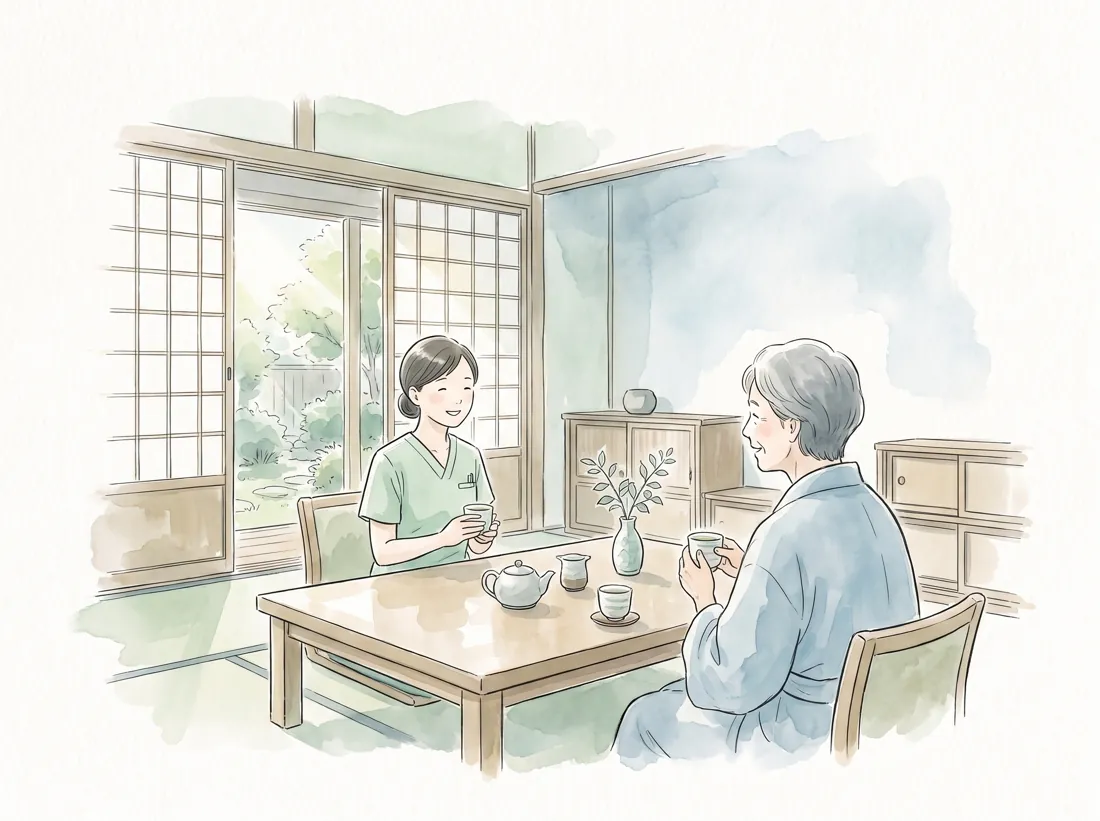
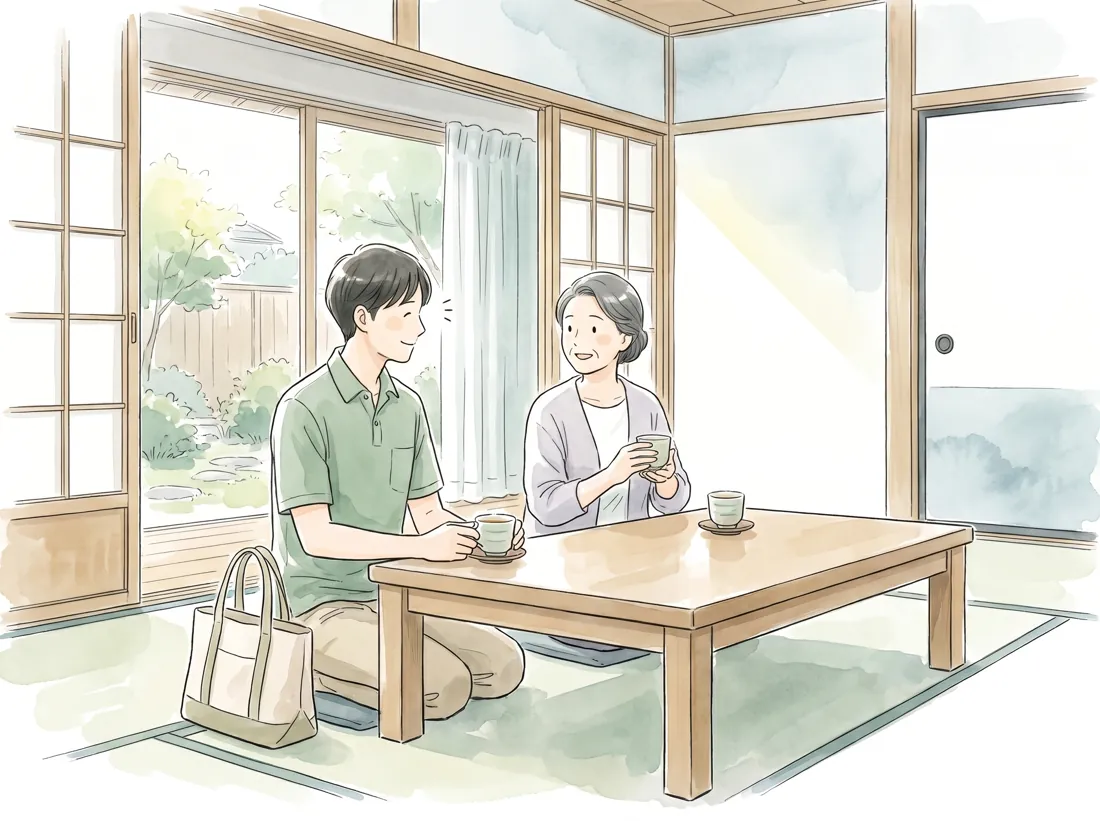
第4版: 私服・精神科らしい絵、作業療法士、動画を外す、よくある質問ページ

diff --git a/qa.html b/qa.html
@@ -1,0 +1,71 @@
+<!doctype html>
+<html lang="ja">
+<head>
+<meta charset="utf-8">
+<meta name="viewport" content="width=device-width, initial-scale=1, viewport-fit=cover">
+<title>よくある質問｜訪問看護ステーションはるうた</title>
+<meta name="description" content="福岡県糟屋郡新宮町を拠点とした、こころのケアが得意な訪問看護ステーションはるうた。「したい」を形に、オーダーメイドの生き方支援をお届けします。">
+<meta property="og:title" content="訪問看護ステーションはるうた">
+<meta property="og:description" content="「したい」を形に。オーダーメイドの生き方支援。新宮町を拠点とした、こころのケアが得意な訪問看護ステーションです。">
+<meta property="og:image" content="assets/img/hero_sea.webp">
+<link rel="icon" href="assets/favicon.png">
+<link rel="preconnect" href="https://fonts.googleapis.com">
+<link rel="preconnect" href="https://fonts.gstatic.com" crossorigin>
+<link rel="stylesheet" href="https://fonts.googleapis.com/css2?family=Zen+Maru+Gothic:wght@400;500;700&family=Zen+Old+Mincho:wght@400;500;700&display=swap">
+<link rel="stylesheet" href="assets/style.css">
+</head>
+<body>
+
+<header class="site-head">
+  <div class="wrap">
+    <a class="brand" href="./"><img src="assets/logo.png" alt=""><span class="bt"><small>こころのケアが得意な訪問看護ステーション</small><b>はるうた</b></span></a>
+    <button class="menu-btn" type="button" aria-expanded="false" aria-controls="nav">メニュー</button>
+    <nav class="nav" id="nav">
+      <a href="./#top"><svg viewBox="0 0 24 24"><path d="M3 11l9-7 9 7"/><path d="M5 10v10h14V10"/><path d="M10 20v-6h4v6"/></svg>ホーム</a>
+      <a href="./#service"><svg viewBox="0 0 24 24"><path d="M12 20s-7-4.4-7-10a4 4 0 0 1 7-2.6A4 4 0 0 1 19 10c0 5.6-7 10-7 10z"/></svg>はるうたの<br>訪問看護</a>
+      <a href="./#first"><svg viewBox="0 0 24 24"><circle cx="12" cy="12" r="9"/><path d="M9.5 9.5a2.5 2.5 0 1 1 3.5 2.3c-.6.3-1 .8-1 1.5v.7"/><path d="M12 17h.01"/></svg>はじめての<br>方へ</a>
+      <a href="./#area"><svg viewBox="0 0 24 24"><path d="M12 21s-6-5.3-6-11a6 6 0 0 1 12 0c0 5.7-6 11-6 11z"/><circle cx="12" cy="10" r="2.2"/></svg>対象<br>エリア</a>
+      <a href="qa.html"><svg viewBox="0 0 24 24"><path d="M4 5h11a2 2 0 0 1 2 2v6a2 2 0 0 1-2 2H9l-4 3v-3H4z"/><path d="M19 9h1v8h-1v3l-3-3h-5"/></svg>よくある<br>質問</a>
+      <a href="./#news"><svg viewBox="0 0 24 24"><rect x="4" y="5" width="16" height="12" rx="2"/><path d="M8 21l3-4"/><path d="M8 9h8M8 13h5"/></svg>お知らせ</a>
+      <a href="./#access"><svg viewBox="0 0 24 24"><rect x="3" y="6" width="18" height="12" rx="2"/><path d="M3 8l9 6 9-6"/></svg>アクセス<br>お問い合わせ</a>
+    </nav>
+    <a class="head-tel" href="tel:0924106392"><small>お電話でのご質問・ご相談</small><b>092-410-6392</b><small>受付 9:00〜18:00（土日祝日を除く）</small></a>
+  </div>
+</header>
+
+<main>
+  <section class="page-head">
+    <div class="wrap">
+      <span class="crumb"><a href="./">ホーム</a> ／ よくある質問</span>
+      <h1>よくある質問</h1>
+    </div>
+  </section>
+  <section class="block qa-page">
+    <div class="wrap">
+      <div class="qa-tools">
+        <label class="qa-search" for="qa-q"><span>ことばで探す</span><input id="qa-q" type="search" placeholder="例：料金、頻度、家族" autocomplete="off"></label>
+        <nav class="qa-chips" aria-label="カテゴリー"><a class="qa-chip" href="#about">はじめての方へ</a><a class="qa-chip" href="#start">ご利用の始め方</a><a class="qa-chip" href="#visit">訪問について</a><a class="qa-chip" href="#privacy">プライバシー・安心</a><a class="qa-chip" href="#fee">料金・制度</a><a class="qa-chip" href="#family">ご家族の方へ</a><a class="qa-chip" href="#partner">医療機関・関係機関の方へ</a></nav>
+        <p class="qa-count" id="qa-count">23 件の質問</p>
+      </div>
+      <section class="qa-group" id="about"><h2>はじめての方へ</h2><details class="qa"><summary><span class="q">Q</span><span>精神科訪問看護とは、どんなサービスですか？</span></summary><div class="a"><span class="q a-mark">A</span><div><p>精神科訪問看護の目的は「精神疾患を持つ方自身が、したいことや夢を実現できるように必要なサポートを提供すること」です。</p><p>はるうたでは、利用者さんの「こうしたい、こうなりたい」という気持ちを尊重し、その方の強みやできることを大切にしながら、自分らしい在り方で歩んでいくための支援を常に考えています。</p></div></div></details><details class="qa"><summary><span class="q">Q</span><span>身体の病気や医療処置がなくても利用できますか？</span></summary><div class="a"><span class="q a-mark">A</span><div><p>はい。訪問看護は、身体の看護や自宅での医療処置が必要な方だけのもの、というイメージがまだ大きくありますが、はるうたはこころのケアが得意な訪問看護ステーションです。</p><p>「こうやって活用できるなんて知らなかった」「私でもサービスを受けられるんだ」——はじめてご利用される方から、実際によくいただく言葉です。</p></div></div></details><details class="qa"><summary><span class="q">Q</span><span>どんな人が受けられますか？</span></summary><div class="a"><span class="q a-mark">A</span><div><p>精神科病院、心療内科、メンタルクリニックに通院中の方が対象です。ご利用には医師の指示書が必要です。就労中の方もご利用いただけます。</p><p>統合失調症・うつ病・双極性障害・パニック障害・発達障害・依存症など、幅広い精神疾患に対応しています。お子さまも対象で、年齢制限はありません。</p></div></div></details><details class="qa"><summary><span class="q">Q</span><span>子どもも利用できますか？</span></summary><div class="a"><span class="q a-mark">A</span><div><p>はい。あまり知られていませんが、訪問看護でも子どもの療育を受けられます。</p><p>はるうたには児童発達支援士・発達障害コミュニケーションサポーターの資格を持つスタッフが在籍しており、その子の課題やプログラムに応じた療育を行うことができます。</p></div></div></details></section><section class="qa-group" id="start"><h2>ご利用の始め方</h2><details class="qa"><summary><span class="q">Q</span><span>利用を始めるまでの流れを教えてください。</span></summary><div class="a"><span class="q a-mark">A</span><div><p>① お問い合わせ → ② 面談 → ③ 主治医へ相談・病院受診 → ④ ご契約 → ⑤ ご利用開始、の流れです。</p><p>ご利用開始後は、ご利用者さまの状態に応じて各機関と連携し、生活をサポートします。</p></div></div></details><details class="qa"><summary><span class="q">Q</span><span>面談はどこで行いますか？</span></summary><div class="a"><span class="q a-mark">A</span><div><p>ご自宅（入居施設）や、はるうたの事業所で、ご本人・ご家族さまと面談します。Zoom などオンラインでの面談も可能です。</p></div></div></details><details class="qa"><summary><span class="q">Q</span><span>主治医の許可は必要ですか？</span></summary><div class="a"><span class="q a-mark">A</span><div><p>はい。訪問看護をご利用いただくには、主治医の指示書（訪問看護指示書）が必要です。</p><p>すでに精神科・心療内科に通院（入院中）の方は、主治医へご相談ください。</p></div></div></details><details class="qa"><summary><span class="q">Q</span><span>まだ精神科・心療内科を受診していません。</span></summary><div class="a"><span class="q a-mark">A</span><div><p>まずは病院で、こころの状態・身体の状態を医師に診ていただくことになります。</p><p>必要に応じて、はるうたの看護師が受診に付き添うことも可能です。</p></div></div></details></section><section class="qa-group" id="visit"><h2>訪問について</h2><details class="qa"><summary><span class="q">Q</span><span>訪問はどのくらいの頻度ですか？</span></summary><div class="a"><span class="q a-mark">A</span><div><p>ご利用者さま・ご家族との相談次第です。精神科訪問看護では、月1回から、原則として週3日まで訪問できます。退院直後の3か月間は、週5日まで訪問できます。</p><p>病状が悪化したときなどは、主治医の指示により一時的に回数を増やせる場合があります。</p></div></div></details><details class="qa"><summary><span class="q">Q</span><span>どんなスタッフが来ますか？</span></summary><div class="a"><span class="q a-mark">A</span><div><p>看護師（准看護師を含む）と作業療法士が在籍しています。精神科での経験が豊富な看護師が多く在籍しています。詳しくはスタッフ紹介をご覧ください。</p><p>ご利用者さま及びご家族の許可が得られる場合には、状況に応じて2名のスタッフで訪問することがあります（医師の許可も必要です）。</p></div></div></details><details class="qa"><summary><span class="q">Q</span><span>どんなサービスを受けられますか？</span></summary><div class="a"><span class="q a-mark">A</span><div><p>主に、こころの状態の観察、対話でのケア（カウンセリングのようなイメージです）、お薬の管理に関するご相談、日常生活での援助を行っています。</p><p>外出や通院の同行、お散歩やご自宅での足浴などの気分転換、ご家族へのサポート、各機関との連携も行います。</p></div></div></details><details class="qa"><summary><span class="q">Q</span><span>夜間や休日に具合が悪くなったら、どうすればいいですか？</span></summary><div class="a"><span class="q a-mark">A</span><div><p>緊急時は、24時間365日の体制を整えています。</p></div></div></details><details class="qa"><summary><span class="q">Q</span><span>訪問看護師は車で来ますか？</span></summary><div class="a"><span class="q a-mark">A</span><div><p>距離にもよりますが、主に車で移動することが多いです。訪問先の駐車場に停める場合もありますが、近隣の駐車場を利用することもあります。</p><p>駐車場代・ガソリン代・交通費は、一切かかりません。</p></div></div></details></section><section class="qa-group" id="privacy"><h2>プライバシー・安心</h2><details class="qa"><summary><span class="q">Q</span><span>周りに訪問看護を利用していることを知られたくないのですが…</span></summary><div class="a"><span class="q a-mark">A</span><div><p>訪問時の車には「訪問看護ステーション」の記載はありません。医療従事者だと分かるような白衣や指定のユニフォームもなく、スタッフは私服で伺います。</p><p>訪問看護スタッフの訪問であることが近隣の皆さまに悟られないよう、最大限の配慮をいたします。</p></div></div></details><details class="qa"><summary><span class="q">Q</span><span>主治医や関係機関と、どんな情報を共有しますか？</span></summary><div class="a"><span class="q a-mark">A</span><div><p>体調や心身の状態、生活状況、服薬状況、支援の経過、緊急時に必要な情報など、療養生活を支えるために必要な内容に限ります。</p><p>情報共有は、ご利用者さままたはご家族さまの同意をいただいたうえで行います。詳しくは「<a href="renkei.html">訪問看護医療情報連携加算に係る掲示</a>」をご覧ください。</p></div></div></details></section><section class="qa-group" id="fee"><h2>料金・制度</h2><details class="qa"><summary><span class="q">Q</span><span>料金はどのくらいかかりますか？</span></summary><div class="a"><span class="q a-mark">A</span><div><p>精神科訪問看護では医療保険が適用になります。医療保険の場合は、基本1〜3割負担です。</p><p>受給者証をお持ちの場合は、上限額によって月々の利用料が異なります。駐車場代・ガソリン代・交通費はかかりません。</p></div></div></details><details class="qa"><summary><span class="q">Q</span><span>生活保護を受けていますが、利用できますか？</span></summary><div class="a"><span class="q a-mark">A</span><div><p>はい。生活保護の場合、自己負担はありません。</p></div></div></details><details class="qa"><summary><span class="q">Q</span><span>自立支援医療を使うとどうなりますか？</span></summary><div class="a"><span class="q a-mark">A</span><div><p>自立支援医療は、精神科治療を受けている方が対象です。医療費の1割負担を原則としつつ、月額負担上限額が認定されます。対象は、受給者証に記載されている医療機関です。はるうたを使うときは、受給者証に訪問看護ステーションを加える手続きが必要です（手続きはお手伝いします）。</p><p>例えば月額負担上限額が5,000円の場合、病院代と薬代を合わせて5,000円を超えた月は、訪問看護の利用料は0円です。病院代と薬代が月4,500円だった月は、差額の500円です。</p></div></div></details><details class="qa"><summary><span class="q">Q</span><span>重度障がい者医療や、こども医療費助成制度は使えますか？</span></summary><div class="a"><span class="q a-mark">A</span><div><p>どちらも医療保険による訪問看護が対象です。これらは各自治体の制度で、自己負担の有無や上限額は自治体によって異なります。</p><p>自立支援医療と違い、通院代・薬代とは別に、訪問看護の利用料がかかる場合があります。詳しくはお住まいの市区町村の担当課にお問い合わせいただくか、はるうたにご相談ください。</p></div></div></details><details class="qa"><summary><span class="q">Q</span><span>制度の手続きを手伝ってもらえますか？</span></summary><div class="a"><span class="q a-mark">A</span><div><p>はい。自立支援医療の手続きにあたり、訪問スタッフが役所に同行すること、もしくは代理申請も可能です。お気軽にご相談ください。</p></div></div></details></section><section class="qa-group" id="family"><h2>ご家族の方へ</h2><details class="qa"><summary><span class="q">Q</span><span>家族だけでも相談できますか？</span></summary><div class="a"><span class="q a-mark">A</span><div><p>はい。ご家族がうまく生活を組み立てられず困っている方、自分だけではどうしたらいいかわからない方も、まずはお気軽にご相談ください。</p><p>はるうたは、ご利用開始後も、必要に応じてご家族への相談支援・サポートを行っています。</p></div></div></details></section><section class="qa-group" id="partner"><h2>医療機関・関係機関の方へ</h2><details class="qa"><summary><span class="q">Q</span><span>利用者さんを紹介したいときは、どうすればよいですか？</span></summary><div class="a"><span class="q a-mark">A</span><div><p>お電話（092-410-6392／受付 9:00〜18:00・土日祝日を除く）でご連絡ください。</p></div></div></details><details class="qa"><summary><span class="q">Q</span><span>どのような機関と連携していますか？</span></summary><div class="a"><span class="q a-mark">A</span><div><p>相談支援事業所、障がい福祉サービス事業所、グループホーム、薬局、居宅介護支援事業所などと連携しています。一覧は「<a href="renkei.html">訪問看護医療情報連携加算に係る掲示</a>」に載せています。</p></div></div></details></section>
+      <div class="call qa-call">
+        <h3>ここにない質問も、お気軽にどうぞ</h3>
+        <div class="tel"><div><small>お電話でのご質問・ご相談</small><a class="num" href="tel:0924106392">092-410-6392</a><small>受付 9:00〜18:00（土日祝日を除く）</small></div></div>
+        <button class="copy" type="button" data-copy="092-410-6392">番号をコピー</button>
+      </div>
+    </div>
+  </section>
+</main>
+
+<footer class="site-foot">
+  <div class="wrap">
+    <a class="fb" href="./"><img src="assets/logo.png" alt=""><span><b>訪問看護ステーションはるうた</b><br><small>こころのケアが得意な訪問看護</small></span></a>
+    <nav><a href="./#service">はるうたの訪問看護</a><a href="./#first">はじめての方へ</a><a href="./#area">対象エリア</a><a href="qa.html">よくある質問</a><a href="./#news">お知らせ</a><a href="renkei.html">連携機関の掲示</a><a href="./#access">アクセス・お問い合わせ</a></nav>
+    <small>〒811-0112 福岡県糟屋郡新宮町下府5丁目5-10　TEL 092-410-6392　FAX 092-410-6393</small>
+    <small>© 合同会社リンク</small>
+  </div>
+</footer>
+
+<script src="assets/site.js"></script>
+</body>
+</html>

diff --git a/index.html b/index.html
@@ -25,6 +25,7 @@
       <a href="./#service"><svg viewBox="0 0 24 24"><path d="M12 20s-7-4.4-7-10a4 4 0 0 1 7-2.6A4 4 0 0 1 19 10c0 5.6-7 10-7 10z"/></svg>はるうたの<br>訪問看護</a>
       <a href="./#first"><svg viewBox="0 0 24 24"><circle cx="12" cy="12" r="9"/><path d="M9.5 9.5a2.5 2.5 0 1 1 3.5 2.3c-.6.3-1 .8-1 1.5v.7"/><path d="M12 17h.01"/></svg>はじめての<br>方へ</a>
       <a href="./#area"><svg viewBox="0 0 24 24"><path d="M12 21s-6-5.3-6-11a6 6 0 0 1 12 0c0 5.7-6 11-6 11z"/><circle cx="12" cy="10" r="2.2"/></svg>対象<br>エリア</a>
+      <a href="qa.html"><svg viewBox="0 0 24 24"><path d="M4 5h11a2 2 0 0 1 2 2v6a2 2 0 0 1-2 2H9l-4 3v-3H4z"/><path d="M19 9h1v8h-1v3l-3-3h-5"/></svg>よくある<br>質問</a>
       <a href="./#news"><svg viewBox="0 0 24 24"><rect x="4" y="5" width="16" height="12" rx="2"/><path d="M8 21l3-4"/><path d="M8 9h8M8 13h5"/></svg>お知らせ</a>
       <a href="./#access"><svg viewBox="0 0 24 24"><rect x="3" y="6" width="18" height="12" rx="2"/><path d="M3 8l9 6 9-6"/></svg>アクセス<br>お問い合わせ</a>
     </nav>
@@ -42,21 +43,19 @@
         <div class="btns"><a class="btn main" href="#first">はじめての方へ</a><a class="btn sub" href="#access">ご相談・お問い合わせ</a></div>
       </div>
       <div class="hero-movie">
-        <div class="frame">
-          <iframe src="https://www.youtube-nocookie.com/embed/6pCCk3XAME0?rel=0&amp;playsinline=1&amp;mute=1&amp;autoplay=1&amp;loop=1&amp;controls=0&amp;playlist=6pCCk3XAME0" title="訪問看護ステーションはるうた 紹介動画" allow="autoplay; encrypted-media; picture-in-picture" referrerpolicy="strict-origin-when-cross-origin" allowfullscreen></iframe>
-        </div>
+        <div class="frame"><img src="assets/img/hero_walk.webp" alt="スタッフとご利用者さんが海沿いの松林の道を並んで歩く水彩画" width="1600" height="893" fetchpriority="high"></div>
       </div>
     </div>
   </section>
 
   <section class="band">
-    <img src="assets/img/hero_sea.webp" alt="看護師とご利用者さんが海沿いの松林の道を並んで歩く水彩画" width="1920" height="1072" loading="lazy">
+    <img src="assets/img/band_bench.webp" alt="海の見えるベンチに並んで座る二人の水彩画" width="1920" height="823" loading="lazy">
     <p class="band-copy"><span class="nb">私たちが時間をかけて</span><span class="nb">寄り添います</span></p>
   </section>
 
   <section class="block leaf-tr" id="about">
     <div class="wrap two">
-      <div class="art"><img src="assets/img/about_talk.webp" alt="ご自宅のテーブルで看護師とご利用者さんがお茶を飲みながら話している水彩画" width="1100" height="821" loading="lazy"></div>
+      <div class="art"><img src="assets/img/about_talk.webp" alt="ご自宅の座卓でスタッフとご利用者さんがお茶を飲みながら話している水彩画" width="1100" height="821" loading="lazy"></div>
       <div class="prose">
         <div class="sec-head" style="justify-items:start;text-align:left;margin-bottom:8px"><span class="en">ABOUT</span><h2><span class="nb">はるうたは、</span><span class="nb">こころのケアが得意な</span><span class="nb">訪問看護ステーションです</span></h2></div>
         <p>はるうたでは、専門的視点を持ちながらも『その人らしい生き方』を常に尊重します。</p>
@@ -80,7 +79,7 @@
           <li>涙があふれて止まらない</li>
           <li>自分を傷つけてしまう</li>
         </ul>
-        <div class="art"><img src="assets/img/worries_window.webp" alt="窓辺に座る人に看護師がお茶を差し出す水彩画" width="1100" height="821" loading="lazy"></div>
+        <div class="art"><img src="assets/img/worries_listen.webp" alt="窓辺に座る人のそばで、スタッフが同じ目の高さで話を聴いている水彩画" width="1100" height="821" loading="lazy"></div>
       </div>
       <div class="closing">
         <p>そのほかにも、こころの悩みや感じ方は、人それぞれあります。<br>周りにSOSを出せずに抱え込んでいる方、ご家族がうまく生活を組み立てられず困っている方、<br>自分だけではどうしたらいいかわからない方も、まずはお気軽にご相談ください。</p>
@@ -103,14 +102,14 @@
     <div class="wrap">
       <div class="sec-head"><span class="en">SERVICE</span><h2>はるうたの訪問看護</h2></div>
       <div class="services">
-        <div class="service"><img src="assets/img/svc_doctor.webp" alt="" width="640" height="640" loading="lazy"><h3>主治医との連携</h3><p>主治医による指示のもと、訪問看護を行います。毎月1回、ご利用者さまの状態を主治医へ報告します。</p></div>
+        <div class="service"><img src="assets/img/svc_link.webp" alt="" width="640" height="640" loading="lazy"><h3>主治医との連携</h3><p>主治医による指示のもと、訪問看護を行います。毎月1回、ご利用者さまの状態を主治医へ報告します。</p></div>
         <div class="service"><img src="assets/img/svc_plan.webp" alt="" width="640" height="640" loading="lazy"><h3>ご利用者さまとのプランニング</h3><p>はるうたでは「ご利用者さまとともに」訪問看護計画を作成します。段階に応じて、ご利用者さまの状態に応じたプランツールをご紹介します。</p></div>
-        <div class="service"><img src="assets/img/svc_visit.webp" alt="" width="640" height="640" loading="lazy"><h3>看護師の定期的な訪問</h3><p>看護師1〜2名で訪問し、病状・健康状態の観察、お薬の管理相談、および対話による看護サービスを提供します。</p></div>
-        <div class="service"><img src="assets/img/svc_rehab.webp" alt="" width="640" height="640" loading="lazy"><h3>身体リハビリも対応可能</h3><p>理学療法士によるリハビリプログラムを提案します。EMS（電気治療機器）を用いた看護師によるリハビリも可能です。</p></div>
+        <div class="service"><img src="assets/img/svc_visit.webp" alt="" width="640" height="640" loading="lazy"><h3>看護師・作業療法士の定期的な訪問</h3><p>看護師・作業療法士が1〜2名で訪問し、病状・健康状態の観察、お薬の管理相談、および対話による看護サービスを提供します。</p></div>
+        <div class="service"><img src="assets/img/svc_ot.webp" alt="" width="640" height="640" loading="lazy"><h3>作業療法士による暮らしの支援</h3><p>作業療法士が、料理や買い物、趣味など暮らしの中の「したいこと」を一緒に練習し、生活のリズムづくりをお手伝いします。</p></div>
       </div>
 
       <div class="two sub-two">
-        <div class="art"><img src="assets/img/outing_park.webp" alt="看護師とご利用者さんが公園の道を並んで散歩する水彩画" width="1100" height="821" loading="lazy"></div>
+        <div class="art"><img src="assets/img/outing.webp" alt="スタッフとご利用者さんが買い物袋を持って公園の道を歩く水彩画" width="1100" height="821" loading="lazy"></div>
         <div class="others prose">
           <span class="badge">その他サービス</span>
           <h3>暮らしの中で、一緒に</h3>
@@ -119,7 +118,7 @@
       </div>
 
       <div class="two rev sub-two">
-        <div class="art"><img src="assets/img/kids_blocks.webp" alt="看護師が子どもと積み木で遊び、保護者が見守る水彩画" width="1100" height="821" loading="lazy"></div>
+        <div class="art"><img src="assets/img/kids.webp" alt="スタッフが子どもと絵カードで遊び、保護者が見守る水彩画" width="1100" height="821" loading="lazy"></div>
         <div class="prose">
           <span class="badge">お子様の発達支援</span>
           <h3>訪問看護でも、子どもの療育を受けられます</h3>
@@ -132,7 +131,7 @@
 
   <section class="block wash" id="first">
     <div class="wrap two">
-      <div class="art"><img src="assets/img/family_sofa.webp" alt="ご家族と看護師がソファで話している水彩画" width="1100" height="821" loading="lazy"></div>
+      <div class="art"><img src="assets/img/family_talk.webp" alt="ご家族とスタッフが食卓で話している水彩画" width="1100" height="821" loading="lazy"></div>
       <div class="prose">
         <div class="sec-head" style="justify-items:start;text-align:left;margin-bottom:8px"><span class="en">FOR YOU</span><h2>はじめての方へ</h2></div>
         <p class="catchline">「こうやって活用できるなんて知らなかった」<br>「私でもサービスを受けられるんだ」</p>
@@ -190,7 +189,7 @@
 <footer class="site-foot">
   <div class="wrap">
     <a class="fb" href="./"><img src="assets/logo.png" alt=""><span><b>訪問看護ステーションはるうた</b><br><small>こころのケアが得意な訪問看護</small></span></a>
-    <nav><a href="./#service">はるうたの訪問看護</a><a href="./#first">はじめての方へ</a><a href="./#area">対象エリア</a><a href="./#news">お知らせ</a><a href="renkei.html">連携機関の掲示</a><a href="./#access">アクセス・お問い合わせ</a></nav>
+    <nav><a href="./#service">はるうたの訪問看護</a><a href="./#first">はじめての方へ</a><a href="./#area">対象エリア</a><a href="qa.html">よくある質問</a><a href="./#news">お知らせ</a><a href="renkei.html">連携機関の掲示</a><a href="./#access">アクセス・お問い合わせ</a></nav>
     <small>〒811-0112 福岡県糟屋郡新宮町下府5丁目5-10　TEL 092-410-6392　FAX 092-410-6393</small>
     <small>© 合同会社リンク</small>
   </div>

diff --git a/assets/style.css b/assets/style.css
@@ -46,7 +46,7 @@ p{margin:0}
 .hero .lead{font-size:.95rem;color:var(--muted)}
 .hero .btns{justify-content:flex-start}
 .hero-movie .frame{position:relative;aspect-ratio:16/9;border-radius:28px;overflow:hidden;background:#e3ece6;box-shadow:0 24px 60px rgba(47,84,68,.16);outline:10px solid rgba(255,255,255,.7)}
-.hero-movie iframe{position:absolute;inset:0;width:100%;height:100%;border:0}
+.hero-movie iframe,.hero-movie img{position:absolute;inset:0;width:100%;height:100%;border:0;object-fit:cover}
 
 /* 絵の帯 */
 .band{position:relative;margin:0}
@@ -170,6 +170,29 @@ dl.facts dd{min-width:0;overflow-wrap:anywhere}
 .partners .p-kind{font-size:.85rem;color:var(--deep);background:var(--sage-soft);border-radius:6px;padding:1px 8px;justify-self:start}
 .partners .p-addr{font-size:.9rem;color:var(--muted);overflow-wrap:anywhere}
 .fine{font-size:.9rem;color:var(--muted);display:grid;gap:4px}
+
+/* ---------- よくある質問 ---------- */
+.qa-page .wrap{max-width:900px}
+.qa-tools{display:grid;gap:16px;margin-bottom:48px}
+.qa-search{display:grid;gap:6px;font-size:.9rem;color:var(--muted)}
+.qa-search input{font:inherit;font-size:1rem;padding:14px 18px;border-radius:999px;border:1px solid var(--line);background:var(--white);color:var(--ink)}
+.qa-chips{display:flex;flex-wrap:wrap;gap:8px}
+.qa-chip{font-size:.88rem;text-decoration:none;color:var(--deep);background:var(--sage-soft);border-radius:999px;padding:6px 16px}
+.qa-chip:hover{background:#dde9e0}
+.qa-count{font-size:.85rem;color:var(--muted)}
+.qa-group{display:grid;gap:12px;margin-bottom:56px;scroll-margin-top:110px}
+.qa-group h2{font-size:1.3rem;color:var(--deep);padding-bottom:10px;border-bottom:1px solid var(--line)}
+details.qa{background:var(--white);border:1px solid var(--line);border-radius:18px;overflow:hidden}
+details.qa summary{list-style:none;cursor:pointer;display:grid;grid-template-columns:auto 1fr auto;gap:14px;align-items:center;padding:18px 20px;font-weight:500;line-height:1.7}
+details.qa summary::-webkit-details-marker{display:none}
+details.qa summary::after{content:"+";font-size:1.4rem;color:var(--sage);line-height:1}
+details.qa[open] summary::after{content:"−"}
+.qa .q{display:inline-grid;place-items:center;width:34px;height:34px;border-radius:50%;background:var(--sage);color:var(--white);font-family:var(--display);font-size:1rem}
+.qa .a{display:grid;grid-template-columns:auto 1fr;gap:14px;padding:0 20px 20px;color:var(--ink)}
+.qa .a > div{display:grid;gap:.8em;min-width:0}
+.qa .a-mark{background:var(--blush);color:#9a5b52}
+.qa-call{margin-top:24px}
+.qa-group[hidden],details.qa[hidden]{display:none}
 
 /* ---------- 画面の幅ごと ---------- */
 @media (max-width:1060px){

diff --git a/renkei.html b/renkei.html
@@ -25,6 +25,7 @@
       <a href="./#service"><svg viewBox="0 0 24 24"><path d="M12 20s-7-4.4-7-10a4 4 0 0 1 7-2.6A4 4 0 0 1 19 10c0 5.6-7 10-7 10z"/></svg>はるうたの<br>訪問看護</a>
       <a href="./#first"><svg viewBox="0 0 24 24"><circle cx="12" cy="12" r="9"/><path d="M9.5 9.5a2.5 2.5 0 1 1 3.5 2.3c-.6.3-1 .8-1 1.5v.7"/><path d="M12 17h.01"/></svg>はじめての<br>方へ</a>
       <a href="./#area"><svg viewBox="0 0 24 24"><path d="M12 21s-6-5.3-6-11a6 6 0 0 1 12 0c0 5.7-6 11-6 11z"/><circle cx="12" cy="10" r="2.2"/></svg>対象<br>エリア</a>
+      <a href="qa.html"><svg viewBox="0 0 24 24"><path d="M4 5h11a2 2 0 0 1 2 2v6a2 2 0 0 1-2 2H9l-4 3v-3H4z"/><path d="M19 9h1v8h-1v3l-3-3h-5"/></svg>よくある<br>質問</a>
       <a href="./#news"><svg viewBox="0 0 24 24"><rect x="4" y="5" width="16" height="12" rx="2"/><path d="M8 21l3-4"/><path d="M8 9h8M8 13h5"/></svg>お知らせ</a>
       <a href="./#access"><svg viewBox="0 0 24 24"><rect x="3" y="6" width="18" height="12" rx="2"/><path d="M3 8l9 6 9-6"/></svg>アクセス<br>お問い合わせ</a>
     </nav>
@@ -92,7 +93,7 @@
 <footer class="site-foot">
   <div class="wrap">
     <a class="fb" href="./"><img src="assets/logo.png" alt=""><span><b>訪問看護ステーションはるうた</b><br><small>こころのケアが得意な訪問看護</small></span></a>
-    <nav><a href="./#service">はるうたの訪問看護</a><a href="./#first">はじめての方へ</a><a href="./#area">対象エリア</a><a href="./#news">お知らせ</a><a href="renkei.html">連携機関の掲示</a><a href="./#access">アクセス・お問い合わせ</a></nav>
+    <nav><a href="./#service">はるうたの訪問看護</a><a href="./#first">はじめての方へ</a><a href="./#area">対象エリア</a><a href="qa.html">よくある質問</a><a href="./#news">お知らせ</a><a href="renkei.html">連携機関の掲示</a><a href="./#access">アクセス・お問い合わせ</a></nav>
     <small>〒811-0112 福岡県糟屋郡新宮町下府5丁目5-10　TEL 092-410-6392　FAX 092-410-6393</small>
     <small>© 合同会社リンク</small>
   </div>

diff --git a/assets/site.js b/assets/site.js
@@ -17,6 +17,24 @@
     });
   });
 
+  // よくある質問の絞り込み（qa.html だけ）
+  var qbox = document.getElementById('qa-q');
+  if (qbox) {
+    var count = document.getElementById('qa-count');
+    qbox.addEventListener('input', function () {
+      var w = qbox.value.trim(), shown = 0;
+      document.querySelectorAll('.qa-group').forEach(function (g) {
+        var any = false;
+        g.querySelectorAll('details.qa').forEach(function (d) {
+          var hit = !w || d.textContent.indexOf(w) >= 0;
+          d.hidden = !hit; if (hit) { any = true; shown++; if (w) d.open = true; }
+        });
+        g.hidden = !any;
+      });
+      count.textContent = w ? '「' + w + '」に合う質問 ' + shown + ' 件' : shown + ' 件の質問';
+    });
+  }
+
   // 連携機関の掲示（renkei.html だけ）。スプレッドシート（GAS）から最新を読み、だめなら保存済みの一覧を出す。
   var list = document.getElementById('partners');
   if (!list) return;
